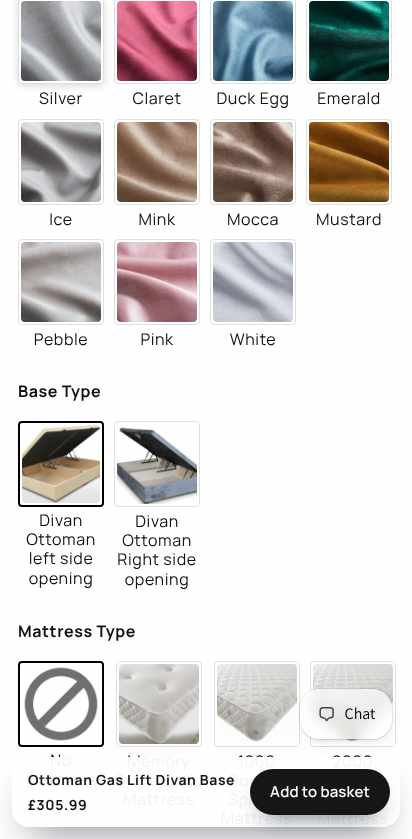
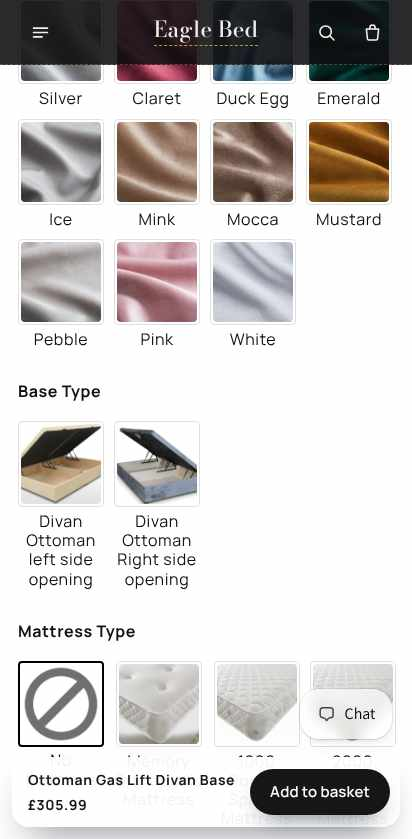
Theme CRO fixes 19 Nov: work in progress
Claude-Session: https://claude.ai/code/session_01Use82M81bhYmaWx5GYYzXk

Changed region(s): [[0.0, 0.0, 1.0, 0.093], [0.0291, 0.4958, 0.2621, 0.7128]]

diff --git a/ops/theme-cro-2026-11-19/after/assets/eb-cro-fixes-19nov.css b/ops/theme-cro-2026-11-19/after/assets/eb-cro-fixes-19nov.css
@@ -25,6 +25,11 @@ html body .eb3d-info video { max-width: 100%; height: auto; }
 html body .eb3d-info .easify-product-options,
 html body .eb3d-info #easify-product-options,
 html body .eb3d-info .po-options-root { max-width: 100%; min-width: 0; }
+/* Easify 4-column swatch grids (Base Type, Mattress Type, colours) are 374px wide and
+   stick out on phones under 411px (iPhone 13/14/15: 390px). Show 3 per row there. */
+@media (max-width: 410px) {
+  html body .eb3d-info .po-imageSwatches-grid-4 { grid-template-columns: repeat(3, 86px); }
+}
 /* Home: "N designs" count badges pushed the category cards past the screen edge */
 html body .eb3d-cats__grid > * { min-width: 0; }
 html body .eb3d-cat__label { min-width: 0; }

diff --git a/ops/theme-cro-2026-11-19/README.md b/ops/theme-cro-2026-11-19/README.md
@@ -1,0 +1,37 @@
+# CRO fixes, 19 Nov 2026 (theme copy "Eagle Bed CRO fixes 19 Nov - PUBLISH", id 213270004043)
+
+Owner approval: 19 Nov 2026, "Fix the website" (Rocket Stage 3, group A: A1-A5).
+Unpublished copy of the live theme. The live theme was **not** touched (its layout/theme.liquid checksum is unchanged: 72573e6235196be3559e14ce444dfb9a). The owner publishes the copy.
+
+| | Theme | ID | Role |
+|---|---|---|---|
+| Original (live today) | Eagle Bed SEO fixes 10 Nov - PUBLISH | 212418724171 | MAIN |
+| New copy (this work) | Eagle Bed CRO fixes 19 Nov - PUBLISH | 213270004043 | UNPUBLISHED |
+
+Made with Admin GraphQL `themeDuplicate` (19 Nov 2026, ~14:45 UTC), files written with `themeFilesUpsert` (unpublished theme only). Theme slots now 16 of 20.
+
+Preview: https://www.eaglebed.co.uk/?preview_theme_id=213270004043
+Product example: https://www.eaglebed.co.uk/products/side-lift-open-ottoman-bed?preview_theme_id=213270004043
+
+## Files
+
+| File | Change | before/ | after/ |
+|---|---|---|---|
+| layout/theme.liquid | 3 lines added after `base.css` (comment + CSS link + deferred JS) | yes (md5 72573e62...) | yes (md5 09c8d905...) |
+| assets/eb-cro-fixes-19nov.css | NEW file (all CSS fixes, one marked block) | (did not exist) | yes |
+| assets/eb-cro-fixes-19nov.js | NEW file (sticky bar timing + sticky tap) | (did not exist) | yes |
+
+Checksums of all 3 files read back from the copy match `after/` byte for byte. No other theme file, product, price, app setting, checkout or payment setting was changed. No copy (text) was changed.
+
+## Publish (owner)
+
+Shopify admin > Online Store > Themes > find "Eagle Bed CRO fixes 19 Nov - PUBLISH" > "..." or Publish > Publish.
+Check first on your own iPhone: https://www.eaglebed.co.uk/products/side-lift-open-ottoman-bed?preview_theme_id=213270004043
+Note: any theme-editor change made to the live theme after 19 Nov 14:45 UTC is not in the copy.
+
+## Roll back
+
+Shopify admin > Online Store > Themes > "Eagle Bed SEO fixes 10 Nov - PUBLISH" (212418724171) > Publish. About a minute. Then open the home page and one product page on a phone.
+Partial undo inside the copy: delete the 3 added lines in layout/theme.liquid (or restore `before/layout/theme.liquid`).
+
+Full results: REPORT.md. Screenshots: shots/ (before-* = live theme, after-* = this copy).
